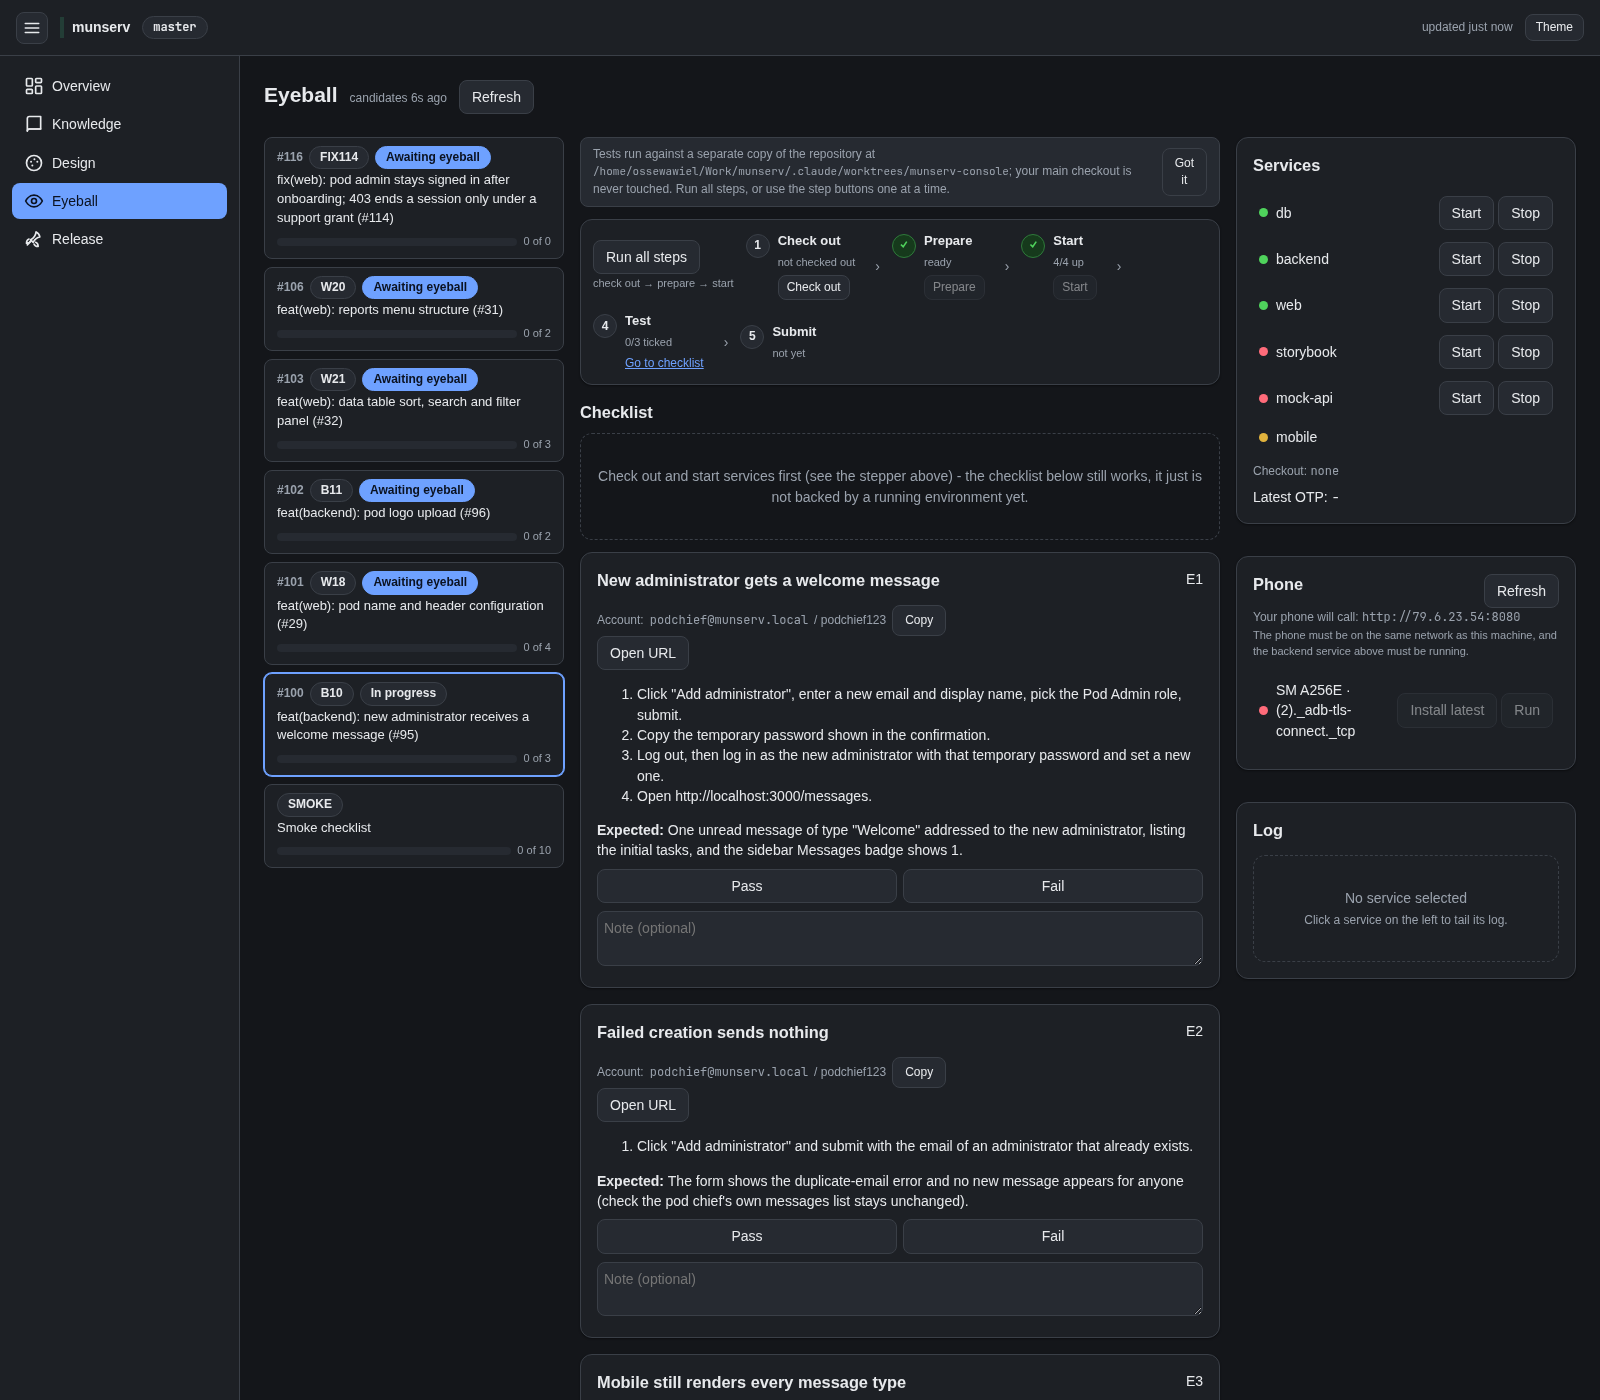
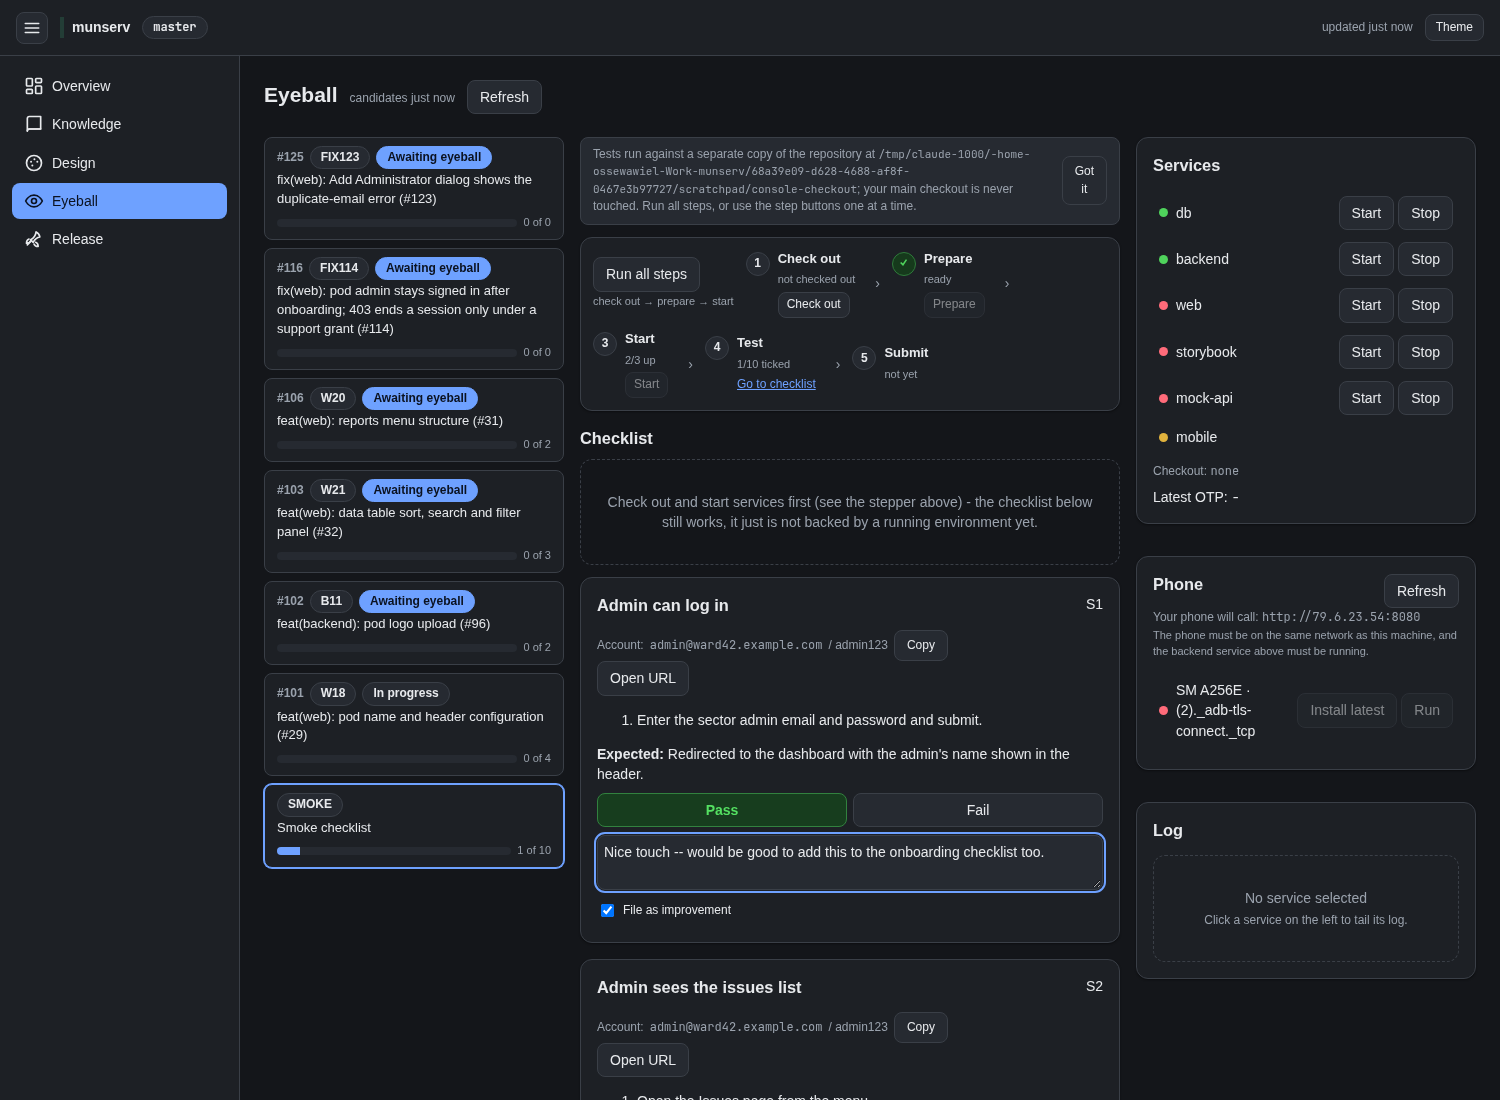
feat(factory): console files a passing check's note as an improvement (#130)
A check ticked Pass with a note can now be flagged "File as improvement";
submit files (or reuses) a type:feature source:eyeball issue titled
"[Eyeball] <story> <id>: <check title>" with the check and note in the
body, same as an observation. The result dialog and PR comment table mark
these with an "improvement" badge, and the toggle keeps the note field's
focus-restore behaviour across re-renders.

Claude-Session: https://claude.ai/code/session_01K38hPHNaoQH9Qtksxvjx84

diff --git a/scripts/console/ui/sections/eyeball.js b/scripts/console/ui/sections/eyeball.js
@@ -123,6 +123,14 @@ function setCheckNote(checkId, note) {
   saveResults();
 }
 
+function setCheckFileAsImprovement(checkId, value) {
+  const data = ensureResultsData();
+  data.checks[checkId] = data.checks[checkId] || { result: null, note: '', issue_url: null };
+  data.checks[checkId].file_as_improvement = value;
+  saveResults();
+  renderAll();
+}
+
 function addObservation() {
   const data = ensureResultsData();
   data.observations.push({ kind: 'bug', text: '', issue_url: null });
@@ -548,7 +556,16 @@ function checkCard(check, index) {
       el('button', { class: 'pass' + (check.result === 'pass' ? ' active' : ''), onclick: () => setCheckResult(check.id, 'pass') }, 'Pass'),
       el('button', { class: 'fail' + (check.result === 'fail' ? ' active' : ''), onclick: () => setCheckResult(check.id, 'fail') }, 'Fail')),
     el('textarea', { class: 'note', placeholder: 'Note (optional)', value: check.note || '', 'data-focus-key': 'note:' + check.id, oninput: (e) => setCheckNote(check.id, e.target.value) }),
-    check.issue_url ? el('div', {}, el('a', { href: check.issue_url, target: '_blank', rel: 'noopener' }, 'Filed issue')) : null);
+    check.result === 'pass' && (check.note || '').trim()
+      ? el('label', { style: 'display:flex;align-items:center;gap:6px;font-size:12px;margin:6px 0' },
+          el('input', {
+            type: 'checkbox', checked: !!check.file_as_improvement, 'data-focus-key': 'improve:' + check.id,
+            onchange: (e) => setCheckFileAsImprovement(check.id, e.target.checked),
+          }),
+          'File as improvement')
+      : null,
+    check.issue_url ? el('div', {}, el('a', { href: check.issue_url, target: '_blank', rel: 'noopener' }, 'Filed issue'),
+      check.file_as_improvement ? el('span', { class: 'chip', style: 'margin-left:6px' }, 'improvement') : null) : null);
 }
 
 function observationsCard() {
@@ -588,10 +605,11 @@ function showSubmitModal(contentEl) {
   document.body.append(backdrop);
 }
 
-function issueLine(labelText, issueUrl, reused) {
+function issueLine(labelText, issueUrl, reused, improvement) {
   const { el } = ctx;
   return el('li', {}, labelText + ': ', el('a', { href: issueUrl, target: '_blank', rel: 'noopener' }, issueUrl),
-    reused ? el('span', { class: 'chip', style: 'margin-left:6px' }, 'reused') : null);
+    reused ? el('span', { class: 'chip', style: 'margin-left:6px' }, 'reused') : null,
+    improvement ? el('span', { class: 'chip', style: 'margin-left:6px' }, 'improvement') : null);
 }
 
 function submitSuccessModal(candidate, data) {
@@ -600,7 +618,7 @@ function submitSuccessModal(candidate, data) {
   const checkItems = (candidate.checks || [])
     .map((c) => ({ c, r: data.checks[c.id] }))
     .filter(({ r }) => r && r.issue_url)
-    .map(({ c, r }) => issueLine(c.id, r.issue_url, r.issue_reused));
+    .map(({ c, r }) => issueLine(c.id, r.issue_url, r.issue_reused, r.file_as_improvement));
   const obsItems = (data.observations || [])
     .filter((o) => o.issue_url)
     .map((o, i) => issueLine('Observation ' + (i + 1), o.issue_url, o.issue_reused));

diff --git a/scripts/test-console.py b/scripts/test-console.py
@@ -134,6 +134,78 @@ class SubmitGuardTests(unittest.TestCase):
                 eyeball.submit(candidate, data, Path(d))
 
 
+class SubmitImprovementTests(unittest.TestCase):
+    """A check ticked Pass, with a note, and "File as improvement" checked must file a
+    `type:feature` issue on submit -- same title format and body shape as a failed check's
+    `type:bug` issue, and the submission's per-check result and PR comment table must both carry
+    an "improvement" marker."""
+
+    def test_a_passing_check_marked_improvement_files_a_type_feature_issue(self):
+        candidate = {
+            "id": "smoke", "kind": "smoke", "number": None, "story": "SMOKE", "platform": "web",
+            "url": "", "checks": [{"id": "S1", "title": "Some check", "as": "none", "services": [],
+                                    "url": "", "steps": [], "expect": "e"}],
+        }
+        data = {
+            "candidate": "smoke",
+            "checks": {"S1": {"result": "pass", "note": "would make a nice shortcut",
+                               "file_as_improvement": True, "issue_url": None}},
+            "observations": [],
+        }
+        original_ensure_labels = eyeball.ensure_labels
+        original_search = eyeball.search_open_issues
+        original_run_captured = eyeball.run_captured
+        eyeball.ensure_labels = lambda: None
+        eyeball.search_open_issues = lambda prefix: []
+        captured = {}
+
+        class FakeResult:
+            stdout = "https://github.com/x/y/issues/42\n"
+
+        def fake_run_captured(args, cwd=None, check=True):
+            captured["args"] = args
+            return FakeResult()
+
+        eyeball.run_captured = fake_run_captured
+        try:
+            with tempfile.TemporaryDirectory() as d:
+                result = eyeball.submit(candidate, data, Path(d))
+        finally:
+            eyeball.ensure_labels = original_ensure_labels
+            eyeball.search_open_issues = original_search
+            eyeball.run_captured = original_run_captured
+
+        self.assertEqual(result["checks"]["S1"]["issue_url"], "https://github.com/x/y/issues/42")
+        self.assertFalse(result["checks"]["S1"]["issue_reused"])
+        args = captured["args"]
+        title = args[args.index("--title") + 1]
+        self.assertEqual(title, "[Eyeball] SMOKE S1: Some check")
+        body = args[args.index("--body") + 1]
+        self.assertIn("would make a nice shortcut", body)
+        self.assertTrue(any("type:feature" in a for a in args))
+        self.assertFalse(any(a.startswith("type:bug") or ",type:bug" in a for a in args))
+
+    def test_a_passing_check_without_the_improvement_flag_files_no_issue(self):
+        candidate = {
+            "id": "smoke", "kind": "smoke", "number": None, "story": "SMOKE", "platform": "web",
+            "url": "", "checks": [{"id": "S1", "title": "Some check", "as": "none", "services": [],
+                                    "url": "", "steps": [], "expect": "e"}],
+        }
+        data = {
+            "candidate": "smoke",
+            "checks": {"S1": {"result": "pass", "note": "worked fine", "issue_url": None}},
+            "observations": [],
+        }
+        original_ensure_labels = eyeball.ensure_labels
+        eyeball.ensure_labels = lambda: None
+        try:
+            with tempfile.TemporaryDirectory() as d:
+                result = eyeball.submit(candidate, data, Path(d))
+        finally:
+            eyeball.ensure_labels = original_ensure_labels
+        self.assertIsNone(result["checks"]["S1"].get("issue_url"))
+
+
 class StartServiceGuardTests(unittest.TestCase):
     """Starting a service before anything has been checked out must fail with a 409 ApiError, not
     a raw FileNotFoundError from Popen."""

diff --git a/scripts/console/eyeball.py b/scripts/console/eyeball.py
@@ -258,7 +258,11 @@ def find_or_create_issue(title_prefix: str, create: Callable[[], str]) -> dict:
     return {"url": create(), "reused": False}
 
 
-def file_check_issue(candidate: dict, check: dict, result: dict) -> dict:
+def file_check_issue(candidate: dict, check: dict, result: dict, kind: str = "bug") -> dict:
+    """File (or reuse) an issue for one check -- a `type:bug` for a failed check, or a
+    `type:feature` when the tester ticked "File as improvement" on a passing check with a note.
+    Same title format and body shape either way, so a check's issue is always found by the same
+    title-prefix search regardless of which way it was filed."""
     title_prefix = f"[Eyeball] {candidate['story']} {check['id']}:"
 
     def create() -> str:
@@ -280,7 +284,7 @@ def file_check_issue(candidate: dict, check: dict, result: dict) -> dict:
         args = [
             "issue", "create", "--repo", repo(),
             "--title", f"{title_prefix} {check['title']}",
-            "--body", "\n".join(lines), "--label", "type:bug,status:ready,source:eyeball",
+            "--body", "\n".join(lines), "--label", f"type:{kind},status:ready,source:eyeball",
         ]
         if candidate.get("platform"):
             args += ["--label", f"platform:{candidate['platform']}"]
@@ -332,6 +336,12 @@ def submit(candidate: dict, data: dict, checkout: Path) -> dict:
             result["issue_url"] = filed["url"]
             result["issue_reused"] = filed["reused"]
             save_results(checkout, candidate["id"], data)
+        elif (result.get("result") == "pass" and result.get("file_as_improvement")
+              and result.get("note", "").strip() and not result.get("issue_url")):
+            filed = file_check_issue(candidate, check, result, kind="feature")
+            result["issue_url"] = filed["url"]
+            result["issue_reused"] = filed["reused"]
+            save_results(checkout, candidate["id"], data)
     for obs in data.get("observations", []):
         if not obs.get("issue_url") and obs.get("text", "").strip():
             filed = file_observation_issue(candidate, obs)
@@ -350,6 +360,8 @@ def submit(candidate: dict, data: dict, checkout: Path) -> dict:
         issue = r.get("issue_url") or ""
         if issue and r.get("issue_reused"):
             issue += " (reused)"
+        if issue and r.get("file_as_improvement"):
+            issue += " (improvement)"
         rows.append(f"| {check['id']} | {check['title']} | {result} | {note} | {issue} |")
     body = f"**Eyeball: {passed}/{total} passed**\n\n" + "\n".join(rows)
     obs_with_issues = [o for o in data.get("observations", []) if o.get("issue_url")]
